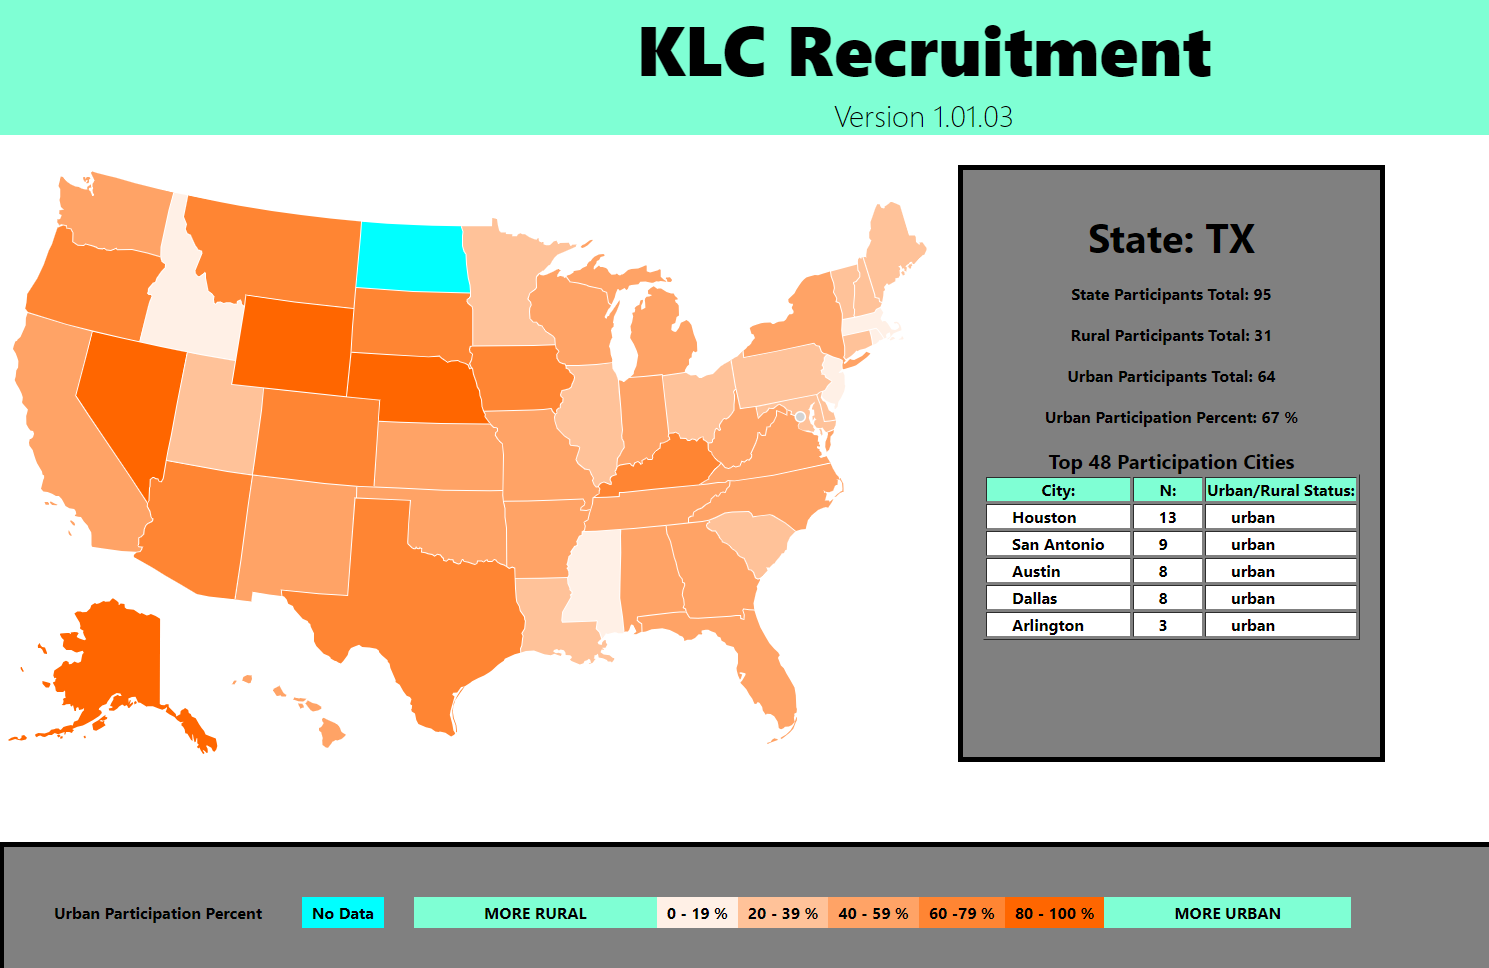
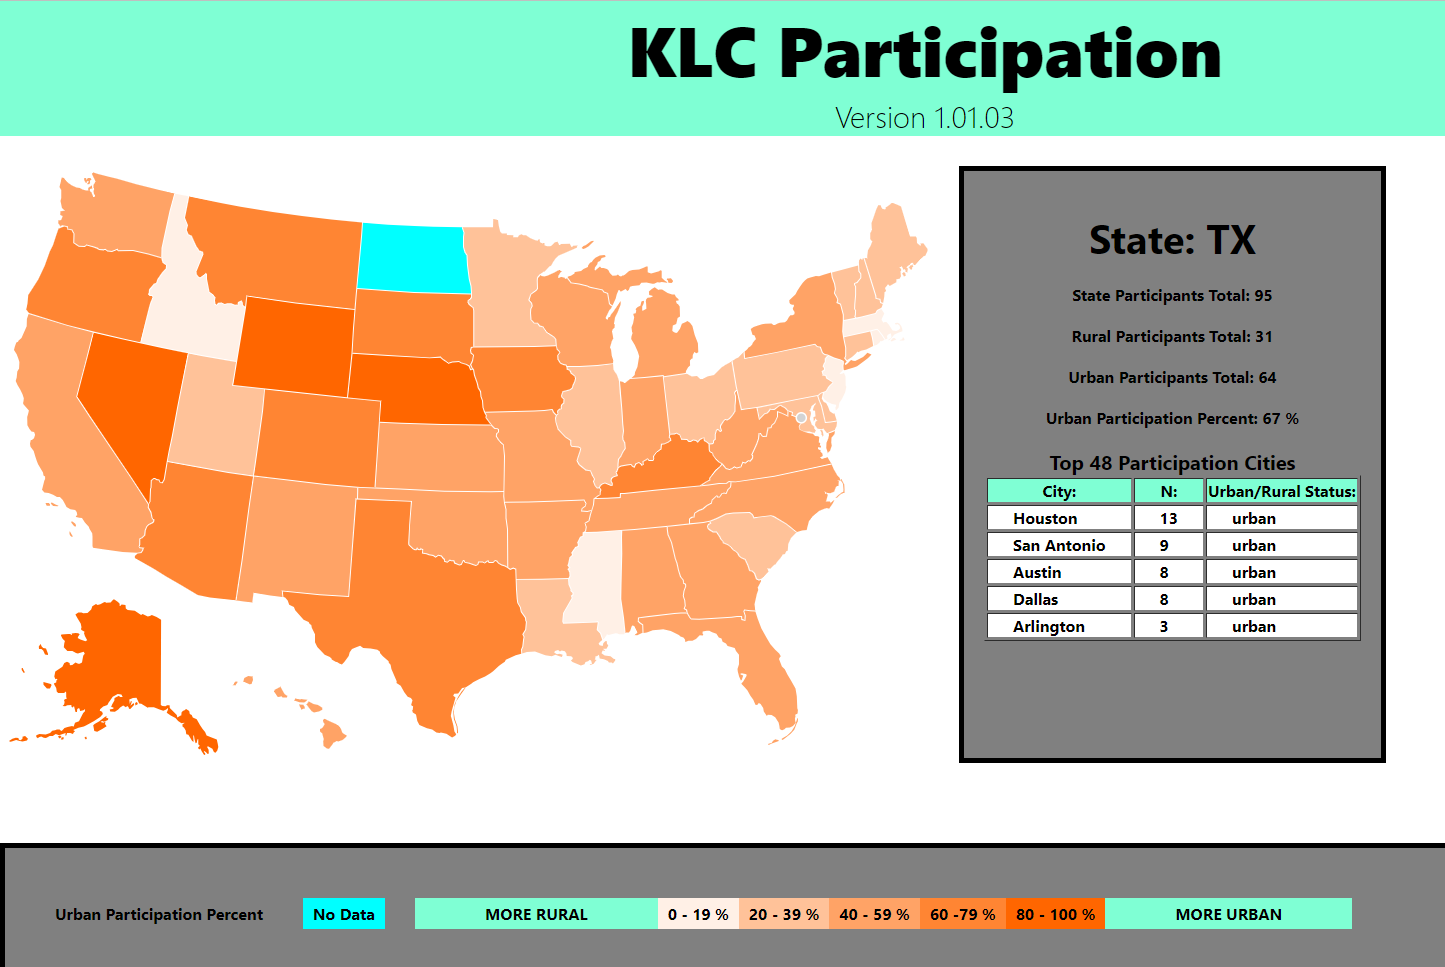
fixed the top 5 cities where if length>5 then just says 5

diff --git a/client/src/pages/Map.js b/client/src/pages/Map.js
@@ -222,7 +222,11 @@ function Map() {
                     <div>
                         {stateStats2.length !== 0 && (
                             <div>
-                              <h2>Top {stateStats2.length} Participation Cities</h2>         
+                              <h2>
+                                {stateStats2.length >=5
+                                ? `Top 5 Participation Cities`
+                                : `Top ${stateStats2.length} Participation Cities`}
+                              </h2>         
                               <table border="1" class='table-map-results'>
                                 <tr>
                                   <th>City:</th>

diff --git a/client/src/components/Header/index.js b/client/src/components/Header/index.js
@@ -3,8 +3,8 @@ import React from 'react';
 function Header() {
     return(
         <section class='header'>
-            <h1>KLC Recruitment</h1>
-            <h4>Version 1.01.03</h4>
+            <h1>KLC Participation</h1>
+            <h4>Version 1.01.04</h4>
         </section>
     )
 };
